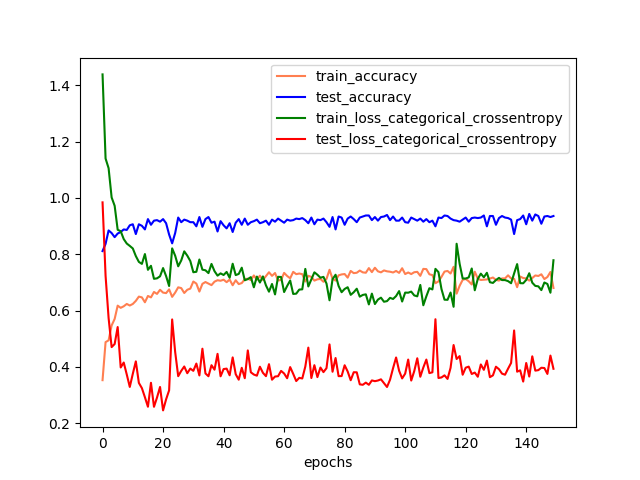
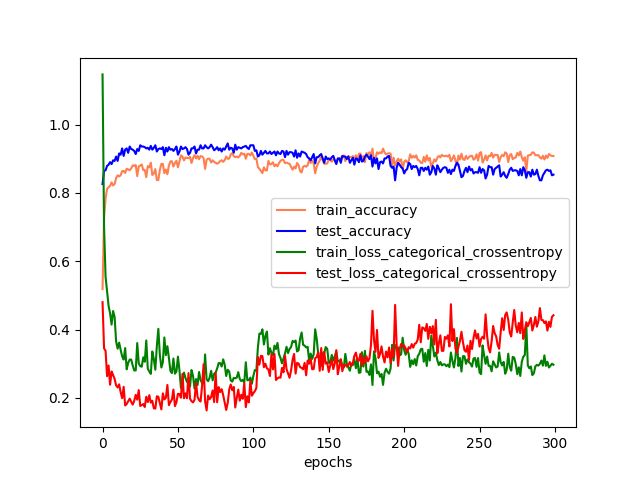
MLP experiment 1

diff --git a/tests.py b/tests.py
@@ -7,14 +7,15 @@ import json
 import seaborn as sns
 import os
 
-# which = 'thresholded_eyes_3.pkl'
-# data = joblib.load(f'./train_data/{which}')
+which = 'thresholded_eyes_2.pkl'
+data = joblib.load(f'./train_data/{which}')
 
-# print(data[1][1])
-# print(data[0][0].shape)
-# for i in range(0, 4):
-#     summm = sum([1 for x in data[1] if x[i] == 1])
-#     print(f'Class {i} has {summm} instances')
+print (len(data[0]))
+print(data[1][1])
+print(data[0][0].shape)
+for i in range(0, len(data[1][1])):
+    summm = sum([1 for x in data[1] if x[i] == 1])
+    print(f'Class {i} has {summm} instances')
 
 # n = len(data[0])
 # for i in range(0, 1):
@@ -28,23 +29,23 @@ import os
 
 
 # PLOTS
-# for x in os.listdir('./models'):
-#     if x.endswith('.json') == False:
-#         continue
-#     with open(f'models/{x}', 'r') as f:
-#         info = json.load(f)
+for x in os.listdir('./models'):
+    if x.endswith('.json') == False:
+        continue
+    with open(f'models/{x}', 'r') as f:
+        info = json.load(f)
 
-#     # multiple line plot
-#     lines = ['train_accuracy', 'test_accuracy',
-#              'train_loss_categorical_crossentropy', 'test_loss_categorical_crossentropy']
-#     colors = ["coral", "blue", "green", "red"]
-#     epochs = range(0, len(info['train_accuracy']))
-#     for i in range(0, len(lines)):
-#         ax = sns.lineplot(
-#             x=epochs, y=lines[i], data=info,  color=colors[i], label=lines[i])
-#     # plt.show(sns)
-#     figname = x.replace('.json', '.png')
-#     plt.xlabel('epochs')
-#     plt.savefig(f'report/images/graphs/{figname}')
-#     plt.clf()
+    # multiple line plot
+    lines = ['train_accuracy', 'test_accuracy',
+             'train_loss_categorical_crossentropy', 'test_loss_categorical_crossentropy']
+    colors = ["coral", "blue", "green", "red"]
+    epochs = range(0, len(info['train_accuracy']))
+    for i in range(0, len(lines)):
+        ax = sns.lineplot(
+            x=epochs, y=lines[i], data=info,  color=colors[i], label=lines[i])
+    # plt.show(sns)
+    figname = x.replace('.json', '.png')
+    plt.xlabel('epochs')
+    plt.savefig(f'report/images/graphs/{figname}')
+    plt.clf()
 

diff --git a/src/trainer.py b/src/trainer.py
@@ -61,6 +61,7 @@ def train_mlp(which_data):
     perm = permutation(len(X))
     X = X[perm]
     y = y[perm]
+    initial_input_shape = X[0].shape
     n = X[0].shape[0] * X[0].shape[1]
     X = np.array([x.flatten() for x in X])
 
@@ -80,12 +81,15 @@ def train_mlp(which_data):
     loss = 'categorical_crossentropy'
     model.compile(optimizer='adam', loss=loss, metrics=['accuracy'])
     fit_history = model.fit(
-        X, y, epochs=train_parameters["epochs"], verbose=1, validation_split=0.2)
+        X, y, epochs=train_parameters["epochs"], batch_size=train_parameters["batch_size"], verbose=1, validation_split=0.2)
 
     return {
         "model": model,
+        "type": "MLP",
         "trained_with": "keras",
         "data_used": which_data,
+        "input_shape": initial_input_shape,
+        "dataset_size": len(X),
         "grid_size": Config.grid_size,
         f"train_loss_{loss}": fit_history.history['loss'],
         f"test_loss_{loss}": fit_history.history['val_loss'],
@@ -305,7 +309,8 @@ def get_best_trained_model(trained_with=None, data_used=None):
 
 if __name__ == '__main__':
     train_parameters = {
-        "epochs": 150
+        "epochs": 300,
+        "batch_size": 32,
     }
     res = train_model(train_parameters)
     save_model(res, train_parameters=train_parameters)

diff --git a/src/data_processing.py b/src/data_processing.py
@@ -98,9 +98,9 @@ def extract_thresholded_eyes(X):
             eyes[j] = resize_cv2_image(eyes[j], fixed_dim=(
                 Config.EYE_WIDTH, Config.EYE_HEIGHT))
         # merge the eyes horizontally
-        # eyes = np.concatenate((eyes[0], eyes[1]), axis=1)
+        eyes = np.concatenate((eyes[0], eyes[1]), axis=1)
         # take only the left eye
-        X[i] = eyes[0]
+        X[i] = eyes
         # threshold the eyes. this also converts the image to grayscale
         X[i] = get_binary_thresholded_image(X[i])
         # normalise

diff --git a/config.py b/config.py
@@ -12,4 +12,4 @@ FACE_WIDTH = 200
 FACE_HEIGHT = 200
 EYE_STRIP_WIDTH = 143
 EYE_STRIP_HEIGHT = 28
-grid_size = 2
+grid_size = 3
